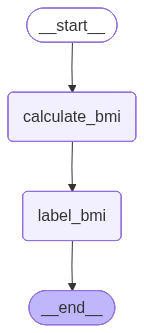
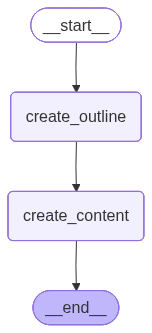
refactor: reorganize sequential workflows into modular script files and add git ignore configuration

diff --git a/Sequential Workflows/3_prompt_workflow.py b/Sequential Workflows/3_prompt_workflow.py
@@ -1,0 +1,52 @@
+import os
+from dotenv import load_dotenv
+from langchain_mistralai import ChatMistralAI
+from langgraph.graph import StateGraph, START, END
+from typing import TypedDict
+
+load_dotenv()
+model = ChatMistralAI(model="mistral-small-latest", verbose=True)
+
+class LLMState(TypedDict):
+    topic : str
+    outline : str
+    content : str
+
+def create_outline(state:LLMState) -> LLMState:
+    prompt = f"give me an outline for this topic : {state['topic']}"
+    response = model.invoke(prompt)
+    state["outline"] = response.content
+    return state
+
+def create_content(state:LLMState) -> LLMState:
+    prompt = f"give me content for this topic : {state['outline']}"
+    response = model.invoke(prompt)
+    state["content"] = response.content
+    return state
+
+graph = StateGraph(LLMState)
+
+graph.add_node("create_outline",create_outline)
+graph.add_node("create_content",create_content)
+
+graph.add_edge(START,"create_outline")
+graph.add_edge("create_outline","create_content")
+graph.add_edge("create_content",END)
+
+workflow = graph.compile()
+
+initial_state = {"topic" : "Artificial Intelligence"}
+final_state = workflow.invoke(initial_state)
+print(final_state["content"])
+
+
+try:
+    png_data = workflow.get_graph().draw_mermaid_png()
+    script_dir = os.path.dirname(os.path.abspath(__file__))
+    graph_path = os.path.join(script_dir, "graph.png")
+    with open(graph_path, "wb") as f:
+        f.write(png_data)
+    print(f"Graph visualization successfully saved as '{graph_path}'!")
+except Exception as e:
+    print(f"Could not save graph visualization: {e}")
+

diff --git a/Sequential Workflows/2_llm_workflow.py b/Sequential Workflows/2_llm_workflow.py
@@ -1,0 +1,47 @@
+import os
+from dotenv import load_dotenv
+from langchain_mistralai import ChatMistralAI
+from langgraph.graph import StateGraph, START, END
+from typing import TypedDict
+
+load_dotenv()
+
+class LLMState(TypedDict):
+    ques: str
+    ans: str
+
+def prompt(state: LLMState) -> LLMState:
+    raw_question = state["ques"]
+    state["ques"] = f"Please explain the following topic in detail: {raw_question}"
+    return state
+
+
+def llm(state: LLMState) -> LLMState:
+    model = ChatMistralAI(model="mistral-small-latest", verbose=True)
+    response = model.invoke(state["ques"])
+    state["ans"] = response.content
+    return state
+
+graph = StateGraph(LLMState)
+
+graph.add_node("prompt", prompt)
+graph.add_node("llm", llm)
+
+graph.add_edge(START, "prompt")
+graph.add_edge("prompt", "llm")
+graph.add_edge("llm", END)
+
+workflow = graph.compile()
+
+final_state = workflow.invoke({"ques" : "Explain About Cricket"})
+print(final_state)
+
+try:
+    png_data = workflow.get_graph().draw_mermaid_png()
+    script_dir = os.path.dirname(os.path.abspath(__file__))
+    graph_path = os.path.join(script_dir, "graph.png")
+    with open(graph_path, "wb") as f:
+        f.write(png_data)
+    print(f"Graph visualization successfully saved as '{graph_path}'!")
+except Exception as e:
+    print(f"Could not save graph visualization: {e}")
